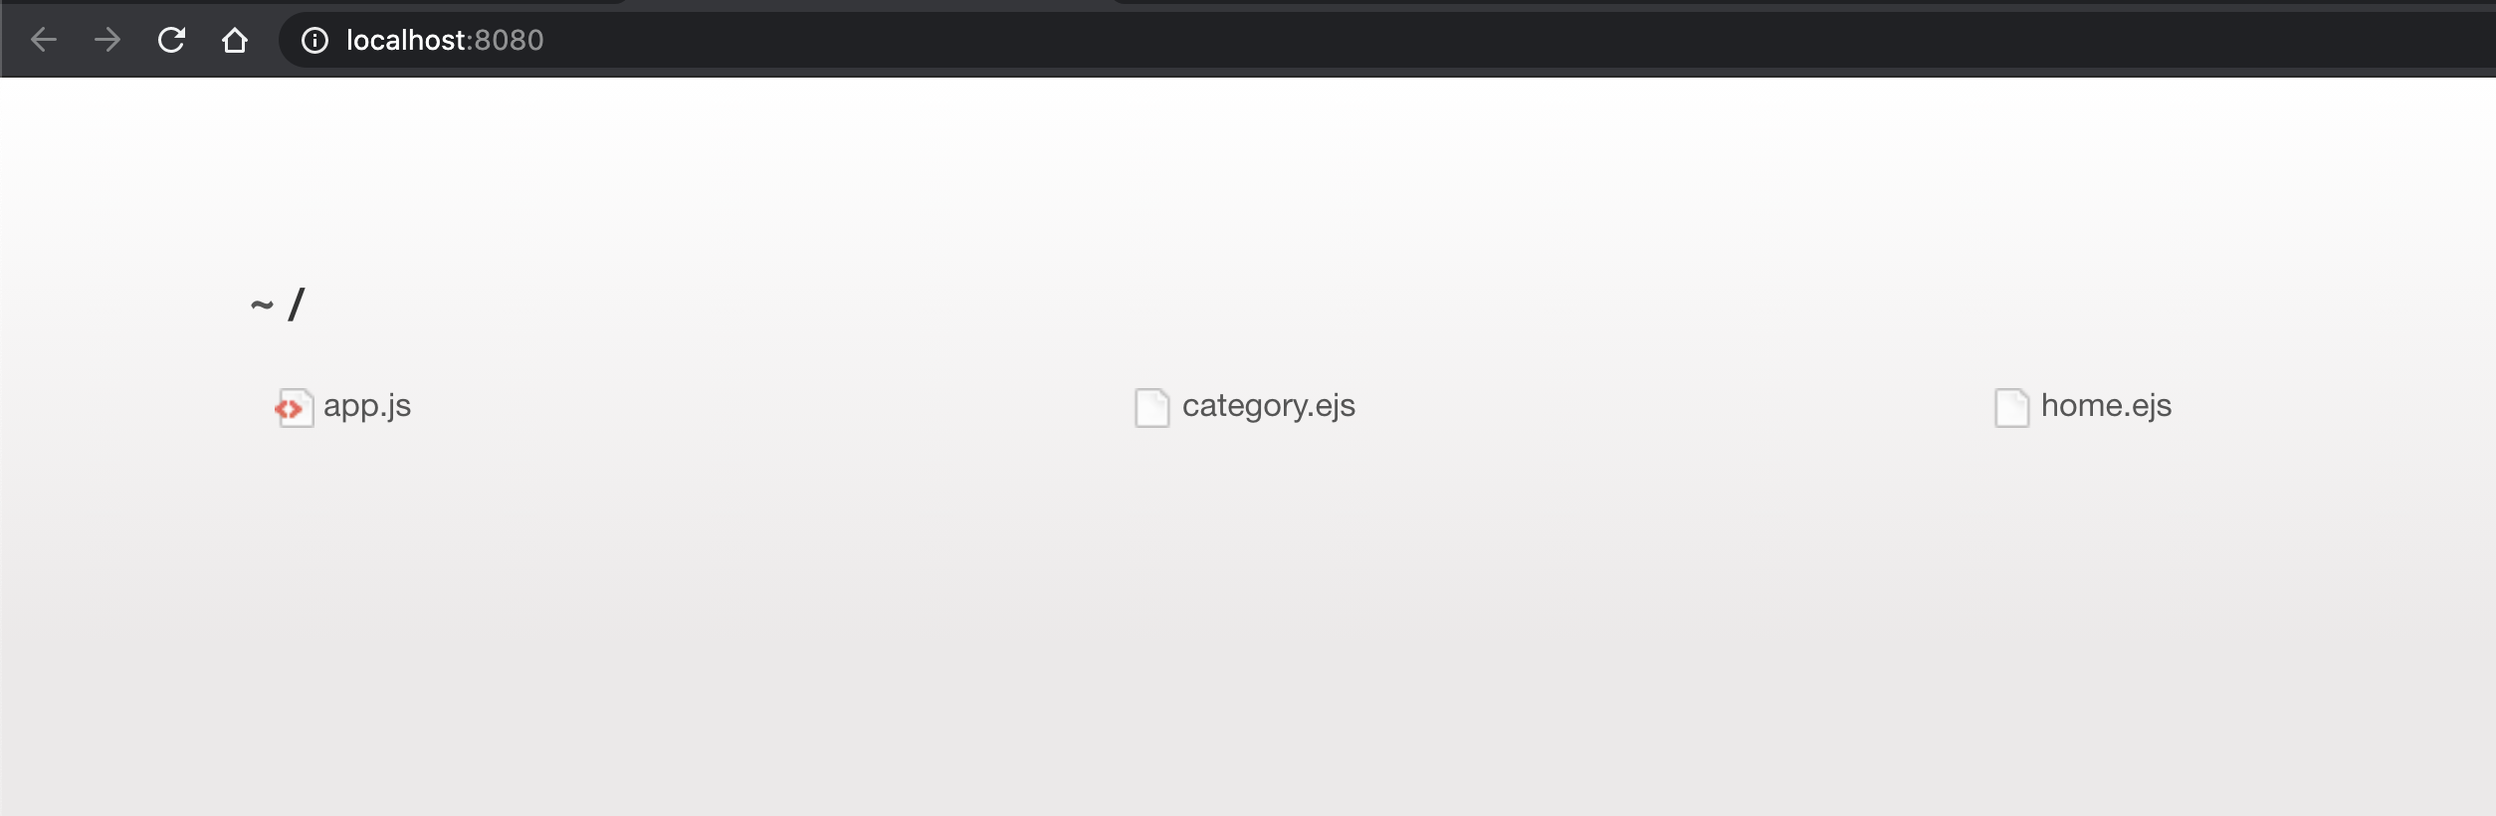
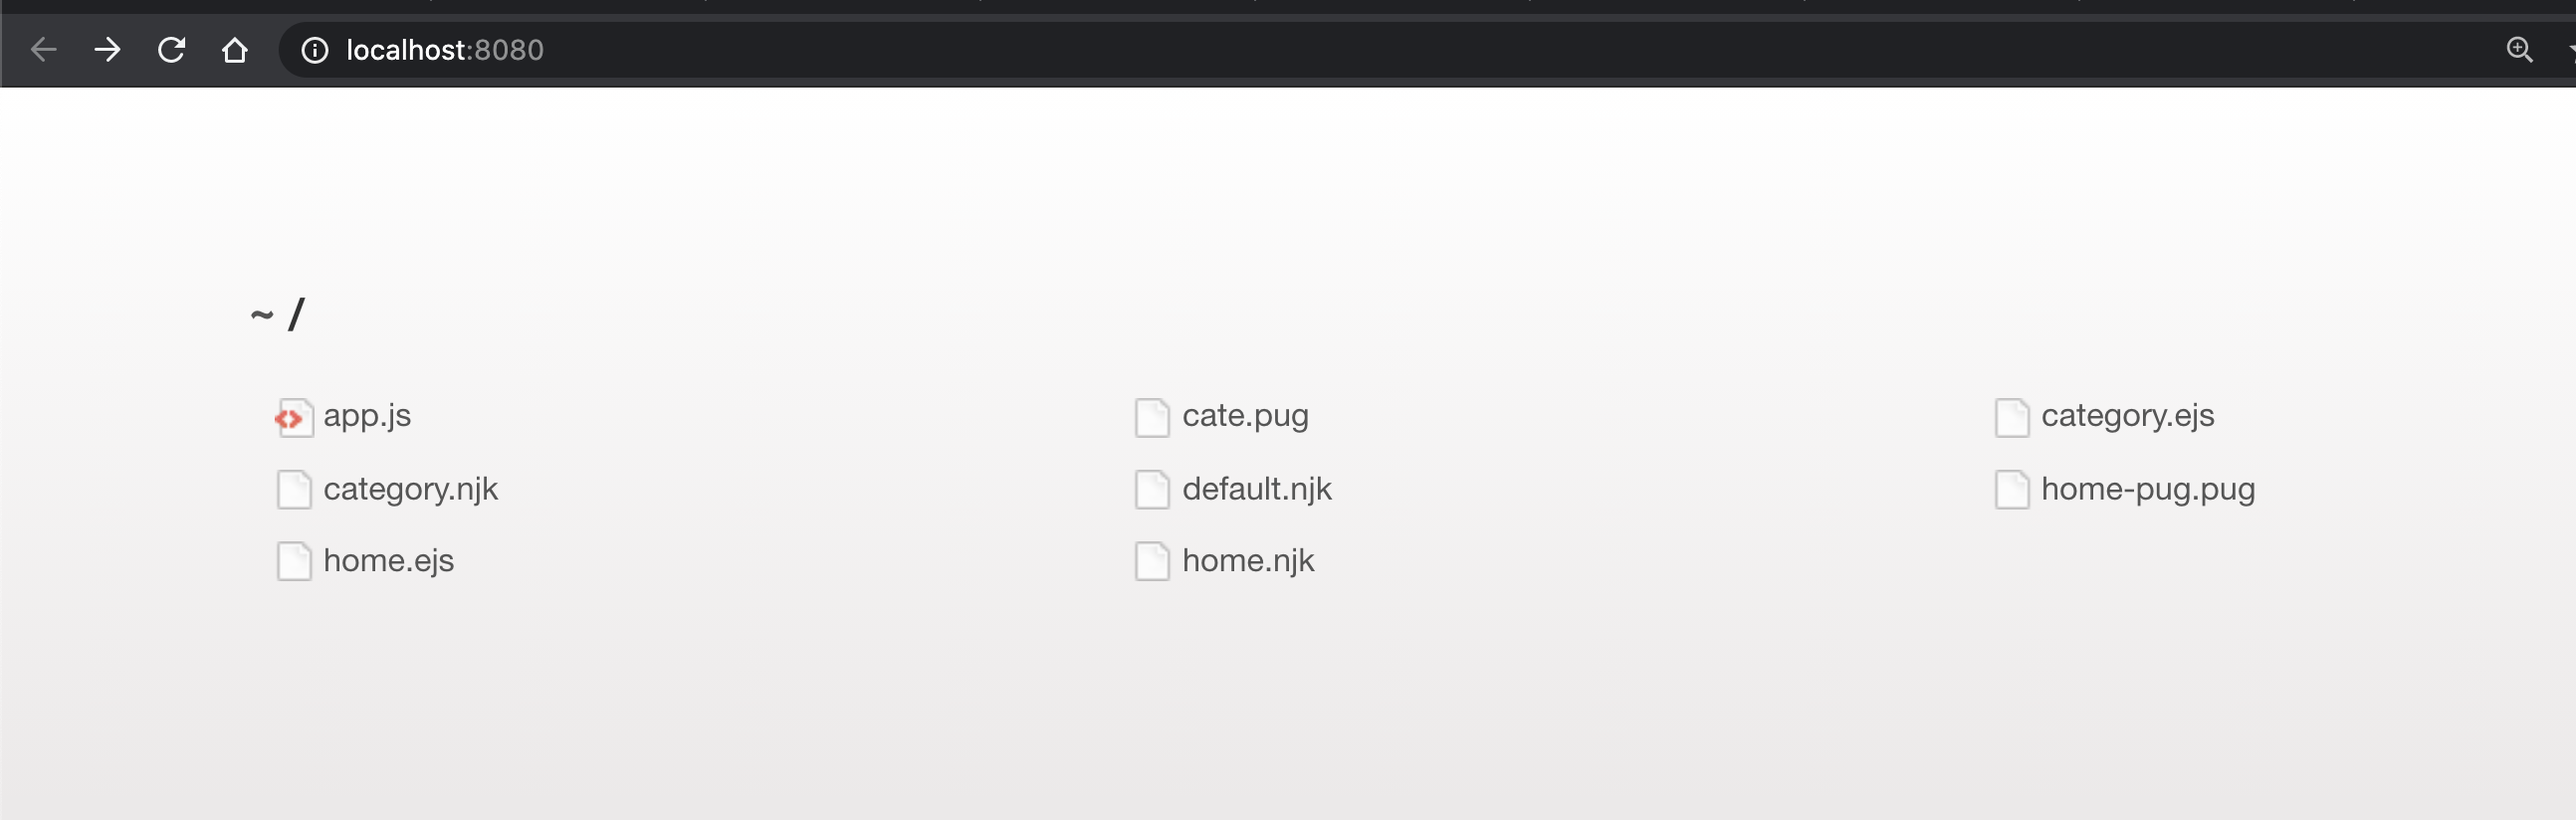
add nunjuck template

diff --git a/webpack.config.js b/webpack.config.js
@@ -1,8 +1,7 @@
 const path = require('path')
-const fs = require('fs')
 const { CleanWebpackPlugin } = require('clean-webpack-plugin')
-const HtmlWebpackPlugin = require('html-webpack-plugin')
 const DEV_MODE = process.env.npm_lifecycle_event == 'start'
+const { initWebpackHtmlWithDir } = require('./webpack.utils')
 
 module.exports = {
     mode: 'development',
@@ -25,6 +24,7 @@ module.exports = {
         ...initWebpackHtmlWithDir('src/templates/ejs'),
         ...initWebpackHtmlWithDir('src/templates/handlebar'),
         ...initWebpackHtmlWithDir('src/templates/pug'),
+        ...initWebpackHtmlWithDir('src/templates/nunjuck'),
     ],
     module: {
         rules: [
@@ -39,6 +39,10 @@ module.exports = {
             {
                 test: /\.(hbs|handlebars)$/,
                 loader: ['raw-loader', 'handlebars-loader'],
+            },
+            {
+                test: /\.njk$/,
+                loader: 'raw-loader',
             },
             {
                 test: /\.js$/,
@@ -79,21 +83,4 @@ module.exports = {
         compress: true,
         hot: true,
     },
-}
-
-function initWebpackHtmlWithDir(dirPath) {
-    const files = fs.readdirSync(dirPath).reduce((arr, file) => {
-        if (file.match(/\.(ejs|pug|hds)$/i)) {
-            arr.push(
-                new HtmlWebpackPlugin({
-                    filename: file,
-                    template: path.resolve(__dirname, dirPath + '/' + file),
-                }),
-            )
-        }
-
-        return arr
-    }, [])
-
-    return files
 }

diff --git a/webpack.utils.js b/webpack.utils.js
@@ -1,0 +1,34 @@
+const path = require('path')
+const fs = require('fs')
+const HtmlWebpackPlugin = require('html-webpack-plugin')
+const NunjucksWebpackPlugin = require('nunjucks-webpack-plugin')
+
+module.exports.initWebpackHtmlWithDir = function (dirPath) {
+    const files = fs.readdirSync(dirPath).reduce((arr, file) => {
+        if (file.match(/\.(ejs|pug|hds|handlebars|njk|nunjucks)$/i)) {
+            arr.push(
+                new HtmlWebpackPlugin({
+                    filename: file,
+                    template: path.resolve(__dirname, dirPath + '/' + file),
+                }),
+            )
+        }
+
+        if (file.match(/\.(njk|nunjucks)$/i)) {
+            arr.push(
+                new NunjucksWebpackPlugin({
+                    templates: [
+                        {
+                            from: path.resolve(__dirname, dirPath + '/' + file),
+                            to: file,
+                        },
+                    ],
+                }),
+            )
+        }
+
+        return arr
+    }, [])
+
+    return files
+}
